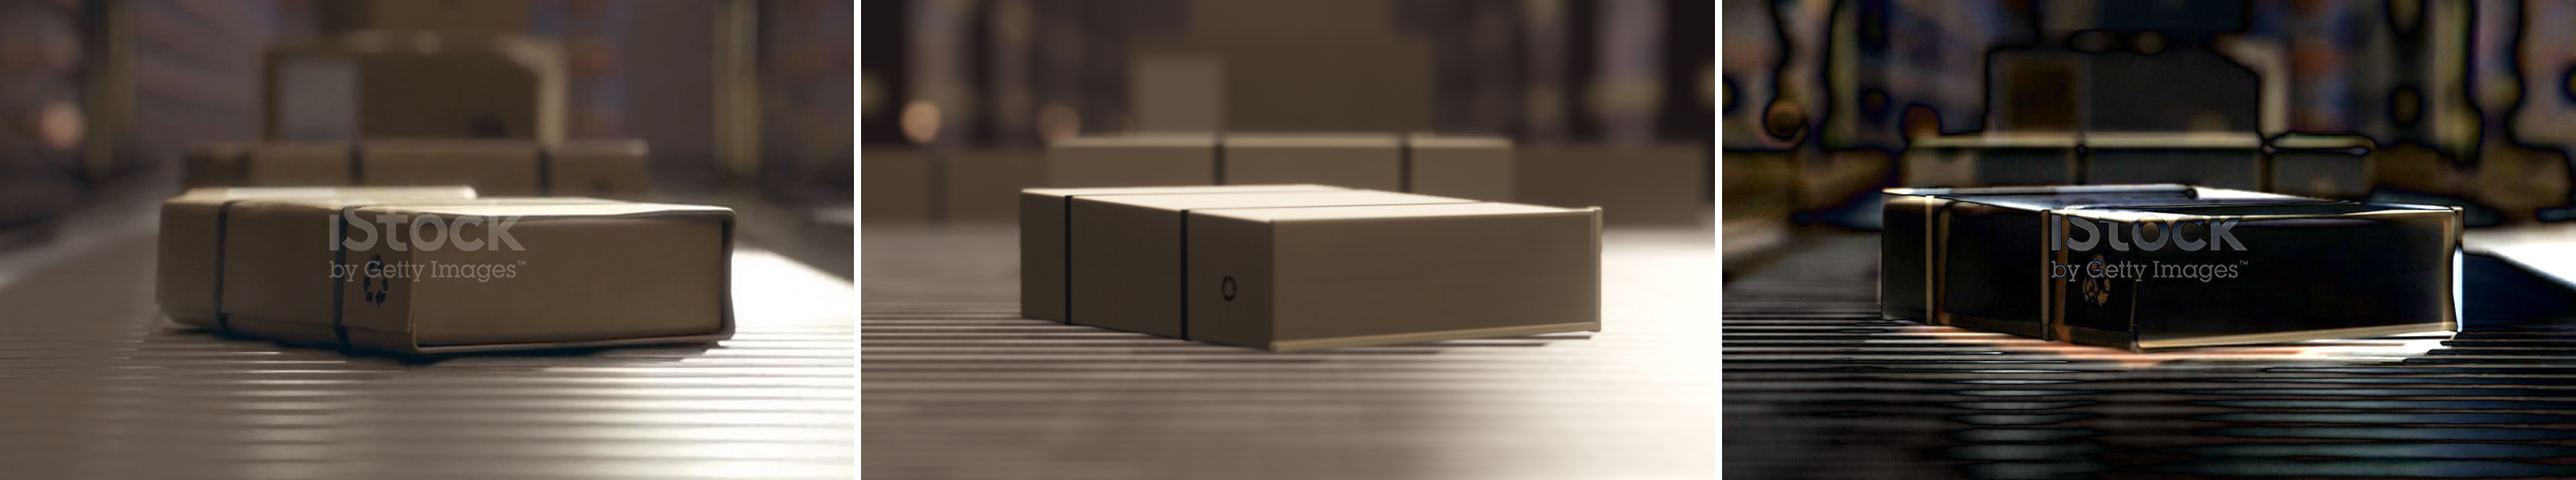
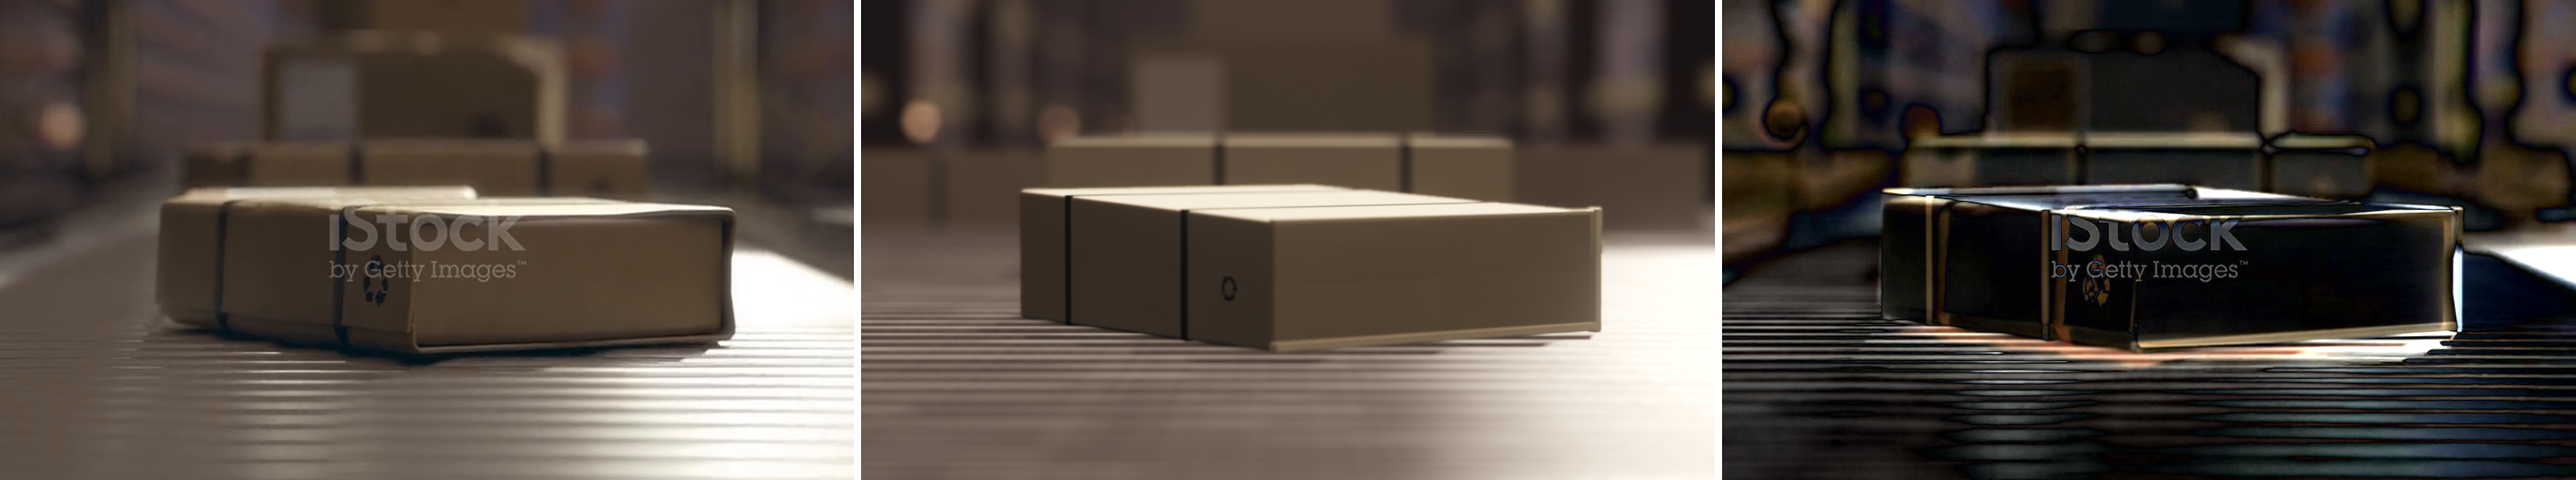
Tune both looks from reviewer rounds; speed up conveyor render
Claude-Session: https://claude.ai/code/session_016jjL2DSSQm13P9xnn1fio6

Changed region(s): [[0.6215, 0.4741, 0.7459, 0.5926], [0.9323, 0.4741, 1.0, 0.5333], [0.3108, 0.4741, 0.404, 0.5333]]

diff --git a/mars-dome/src/world.ts b/mars-dome/src/world.ts
@@ -83,8 +83,8 @@ const panelTexture = (seed: number, cols: number, rows: number) =>
         const v = (y / 512) * rows;
         const fu = u - Math.floor(u);
         const fv = v - Math.floor(v);
-        const seam = Math.min(fu, 1 - fu) * (512 / cols) < 1.6 || Math.min(fv, 1 - fv) * (512 / rows) < 1.6 ? 0.62 : 1;
-        const grime = 0.86 + 0.14 * n.fbm(x / 70, y / 22, 3);
+        const seam = Math.min(fu, 1 - fu) * (512 / cols) < 2.2 || Math.min(fv, 1 - fv) * (512 / rows) < 2.2 ? 0.45 : 1;
+        const grime = 0.74 + 0.26 * n.fbm(x / 70, y / 22, 3);
         const streak = 0.94 + 0.06 * n.value(x / 5, y / 90);
         const fine = 0.97 + 0.03 * rng();
         const t = tint[(Math.floor(v) % rows) * cols + (Math.floor(u) % cols)];
@@ -305,7 +305,7 @@ const buildTerrain = () => {
     for (let y = 0; y < 512; y++) {
       for (let x = 0; x < 512; x++) {
         // tileable: sample the noise on a 128-cell torus
-        const v = 0.82 + 0.3 * dn.ridged((x / 512) * 8, (y / 512) * 8, 5) + 0.1 * (dn.value(x / 2, y / 2) - 0.5);
+        const v = 0.58 + 0.5 * dn.ridged((x / 512) * 8, (y / 512) * 8, 5) + 0.16 * (dn.value(x / 3, y / 3) - 0.5) + 0.1 * dn.ridged((x / 512) * 40, (y / 512) * 40, 2);
         const cc = Math.round(255 * Math.max(0, Math.min(1, v)));
         const i = (y * 512 + x) * 4;
         img.data[i] = cc;
@@ -317,7 +317,7 @@ const buildTerrain = () => {
     ctx.putImageData(img, 0, 0);
   });
   const uv = geo.attributes.uv;
-  for (let i = 0; i < pos.count; i++) uv.setXY(i, pos.getX(i) / 230, pos.getZ(i) / 230);
+  for (let i = 0; i < pos.count; i++) uv.setXY(i, pos.getX(i) / 150, pos.getZ(i) / 150);
   const mesh = new THREE.Mesh(geo, new THREE.MeshStandardMaterial({ vertexColors: true, map: detail, roughness: 1, metalness: 0 }));
   mesh.frustumCulled = false;
   return mesh;
@@ -454,7 +454,7 @@ export const makeWorld = (variant: Variant): World => {
     roof: std(PAL.roofInset, { roughness: 0.9 }),
     glassDark: std(PAL.towerGlass, { roughness: 0.25, metalness: 0.3 }),
   };
-  const beamMat = std(PAL.beam, { roughness: 0.6, map: hullLongTex, side: THREE.DoubleSide });
+  const beamMat = std(PAL.beam, { roughness: 0.45, map: hullLongTex, side: THREE.DoubleSide });
   const towerMat = std(PAL.tower, { map: towerTex });
 
   // --- terrain around the base
@@ -652,7 +652,7 @@ export const makeWorld = (variant: Variant): World => {
         float hot = pow(max(dot(R, uHotDir), 0.0), uHotPower) * uParams.w;
         float refl = mix(0.02, uParams.y, F) + hot;
         float transmit = mix(uParams.x, 0.35, F) * (1.0 - 0.5 * hot);
-        gl_FragColor = vec4(sky * 1.2 * mix(0.02, uParams.y, F) + mix(sky, vec3(1.0, 0.93, 0.85), 0.6) * hot + vec3(glint), clamp(transmit, 0.0, 1.0));
+        gl_FragColor = vec4(sky * 1.2 * mix(0.02, uParams.y, F) + mix(sky, vec3(1.0, 0.86, 0.66), 0.5) * hot + vec3(glint), clamp(transmit, 0.0, 1.0));
       }`,
   });
   const glass = new THREE.Mesh(new THREE.LatheGeometry(glassPts, 128), glassMat);
@@ -682,7 +682,7 @@ export const makeWorld = (variant: Variant): World => {
       root.add(strut(top, anchor, 0.035, 0.035, cableMat, 5));
     }
     const beacon = new THREE.Mesh(beaconGeo, beaconMat);
-    beacon.scale.setScalar(0.22);
+    beacon.scale.setScalar(0.15);
     beacon.position.copy(top).add(new THREE.Vector3(0, 0.75, 0));
     root.add(beacon);
   }
@@ -768,9 +768,9 @@ export const makeWorld = (variant: Variant): World => {
   }
   const spots = lampSpots.slice(0, CONFIG.lamps.count);
   const poleMesh = new THREE.InstancedMesh(new THREE.CylinderGeometry(0.045, 0.06, 2.4, 6), std(PAL.hullDark), spots.length);
-  const bulbMesh = new THREE.InstancedMesh(new THREE.SphereGeometry(0.2, 12, 8), new THREE.MeshBasicMaterial({ color: col(PAL.lamp).multiplyScalar(LIGHTS.lampBrightness) }), spots.length);
-  const poolMat = new THREE.MeshBasicMaterial({ map: glowTexture(), color: col(PAL.lamp).multiplyScalar(0.22), transparent: true, depthWrite: false, blending: THREE.AdditiveBlending });
-  const poolGeo = new THREE.PlaneGeometry(5.2, 5.2);
+  const bulbMesh = new THREE.InstancedMesh(new THREE.SphereGeometry(0.13, 12, 8), new THREE.MeshBasicMaterial({ color: col(PAL.lamp).multiplyScalar(LIGHTS.lampBrightness) }), spots.length);
+  const poolMat = new THREE.MeshBasicMaterial({ map: glowTexture(), color: col(PAL.lamp).multiplyScalar(0.1), transparent: true, depthWrite: false, blending: THREE.AdditiveBlending });
+  const poolGeo = new THREE.PlaneGeometry(3.4, 3.4);
   poolGeo.rotateX(-Math.PI / 2);
   const poolMesh = new THREE.InstancedMesh(poolGeo, poolMat, spots.length);
   spots.forEach(([x, z], i) => {
@@ -815,7 +815,7 @@ export const makeWorld = (variant: Variant): World => {
     root.add(head);
     for (const t of [0.04, 0.22]) {
       const beacon = new THREE.Mesh(beaconGeo, beaconMat);
-      beacon.scale.setScalar(0.07);
+      beacon.scale.setScalar(0.05);
       beacon.position.copy(a).lerp(b, t).add(new THREE.Vector3(-0.22, 0, 0.1));
       root.add(beacon);
     }

diff --git a/mars-dome/src/look.ts b/mars-dome/src/look.ts
@@ -10,32 +10,33 @@ import { Look } from "./engine/pipeline";
 /** Light levels and directions (colours come from the palette in config.ts). */
 export const LIGHTS = {
   /** Soft sun from the camera's upper left. */
-  sun: { intensity: 4.6, elevationDeg: 45, azimuthDeg: 100, shadowRadius: 6, shadowMapSize: 4096 },
+  sun: { intensity: 4.6, elevationDeg: 60, azimuthDeg: 84, shadowRadius: 7, shadowMapSize: 4096 },
   /** Sky / ground ambient: the orange bounce that fills every shadow. */
-  hemisphere: { intensity: 0.22 },
+  hemisphere: { intensity: 0.42 },
   /** Image-based light from the procedural dusty sky. */
   environment: { intensity: 0.2 },
   /** Path lamps and beacons: emissive brightness (they bloom). */
-  lampBrightness: 8,
-  beaconBrightness: 2.5,
+  lampBrightness: 7,
+  beaconBrightness: 1.6,
   /**
    * Dome glass. transmit = how much of the scene behind shows through face-on (it dims, it does not veil);
    * grazing = mirror strength at glancing angles; hotspot = a broad bright patch of sky reflected in the
    * near side of the dome, placed at hotspotAt (fractions of the base frame, from the top left).
    */
-  glass: { transmit: 0.82, grazing: 0.3, sunGlint: 0.5, hotspot: 0.55, hotspotPower: 110, hotspotAt: [0.93, 0.93] as [number, number] },
+  glass: { transmit: 0.84, grazing: 0.26, sunGlint: 0, hotspot: 3.0, hotspotPower: 900, hotspotAt: [0.93, 0.93] as [number, number] },
 };
 
 export const LOOK: Look = {
-  exposure: 0.92,
+  msaaSamples: 4,
+  exposure: 0.8,
   toneMap: "agx",
   whiteBalance: [1, 1, 1],
   fog: {
-    color: [0.34, 0.085, 0.03],
-    sunColor: [0.5, 0.16, 0.065],
-    sunDir: [0.9, 0.3, -0.3],
-    sunPower: 2,
-    density: 0.0003,
+    color: [0.4, 0.1, 0.028],
+    sunColor: [0.95, 0.42, 0.14],
+    sunDir: [0.22, 0.07, -1],
+    sunPower: 5,
+    density: 0.00055,
     heightFalloff: 0.0,
     baseHeight: 0,
     maxOpacity: 0.93,
@@ -44,22 +45,22 @@ export const LOOK: Look = {
     enabled: true,
     /** metres along the lens axis: the tower and the buildings around it */
     focus: 56,
-    cocInfinity: 0.014,
-    maxCoc: 0.045,
+    cocInfinity: 0.02,
+    maxCoc: 0.016,
     nearScale: 0.45,
   },
-  bloom: { threshold: 0.9, knee: 0.5, strength: 0.6, tilt: 0.25 },
+  bloom: { threshold: 0.9, knee: 0.5, strength: 0.35, tilt: 0.0 },
   grade: {
-    blackLevel: 0.085,
+    blackLevel: 0.1,
     whiteLevel: 1,
-    contrast: 1.12,
-    pivot: 0.42,
+    contrast: 1.24,
+    pivot: 0.44,
     saturation: 1,
     gamma: [1, 1, 1],
     shadowTint: [0, 0, 0],
     highlightTint: [0, 0, 0],
   },
-  lens: { vignette: 0, vignetteStart: 0.4, chromaticAberration: 0.0015, softness: 0.0006 },
-  grain: { amount: 0.0016, size: 2, chroma: 0.3 },
+  lens: { vignette: 0, vignetteStart: 0.4, chromaticAberration: 0.0015, softness: 0 },
+  grain: { amount: 0.0026, size: 2, chroma: 0.3 },
   dither: true,
 };

diff --git a/conveyor-parcels/src/world.ts b/conveyor-parcels/src/world.ts
@@ -514,7 +514,7 @@ export const makeWorld = (variant: Variant): World => {
   const beltCentre = ((rc.right + rc.left) / 2) * P;
 
   // --- rollers
-  const rollerGeo = new THREE.CylinderGeometry(rc.radius * P, rc.radius * P, beltWidth, 32, 1, false);
+  const rollerGeo = new THREE.CylinderGeometry(rc.radius * P, rc.radius * P, beltWidth, 24, 1, true);
   rollerGeo.rotateZ(Math.PI / 2);
   rollTex.repeat.set(2, 1);
   const rollerMat = new THREE.MeshPhysicalMaterial({
@@ -580,10 +580,17 @@ export const makeWorld = (variant: Variant): World => {
       );
   };
   rollerMat.customProgramCacheKey = () => "roller-v4";
-  const rollers = new THREE.InstancedMesh(rollerGeo, rollerMat, rc.count);
-  rollers.receiveShadow = true;
-  rollers.frustumCulled = false;
-  root.add(rollers);
+  // near rollers get a round profile; distant ones a coarser one (they are a few pixels tall and out of focus)
+  const rollerGeoFar = new THREE.CylinderGeometry(rc.radius * P, rc.radius * P, beltWidth, 10, 1, true);
+  rollerGeoFar.rotateZ(Math.PI / 2);
+  const nearCount = Math.min(rc.nearCount, rc.count);
+  const rollersNear = new THREE.InstancedMesh(rollerGeo, rollerMat, nearCount);
+  const rollersFar = new THREE.InstancedMesh(rollerGeoFar, rollerMat, rc.count - nearCount);
+  for (const r of [rollersNear, rollersFar]) {
+    r.receiveShadow = true;
+    r.frustumCulled = false;
+    root.add(r);
+  }
   // each roller keeps its own tint as it travels; the tint table repeats once per loop
   const tintRng = mulberry32(31337);
   const tints: THREE.Color[] = [];
@@ -713,12 +720,16 @@ export const makeWorld = (variant: Variant): World => {
         dummy.rotation.set(0, 0, 0);
         dummy.scale.set(1, 1, 1);
         dummy.updateMatrix();
-        rollers.setMatrixAt(i, dummy.matrix);
+        const mesh = i < nearCount ? rollersNear : rollersFar;
+        const k = i < nearCount ? i : i - nearCount;
+        mesh.setMatrixAt(k, dummy.matrix);
         const id = (((i + whole) % tints.length) + tints.length) % tints.length;
-        rollers.setColorAt(i, tint.copy(tints[id]));
+        mesh.setColorAt(k, tint.copy(tints[id]));
       }
-      rollers.instanceMatrix.needsUpdate = true;
-      if (rollers.instanceColor) rollers.instanceColor.needsUpdate = true;
+      for (const r of [rollersNear, rollersFar]) {
+        r.instanceMatrix.needsUpdate = true;
+        if (r.instanceColor) r.instanceColor.needsUpdate = true;
+      }
 
       // warehouse slides past
       backdrop.position.z = travel * P;

diff --git a/mars-dome/src/config.ts b/mars-dome/src/config.ts
@@ -14,34 +14,34 @@ export type Variant = "v1" | "v2";
 
 export const PALETTE = {
   /** Surfaces (sRGB hex). */
-  hull: "#a39587",
+  hull: "#aaa49d",
   hullDark: "#8e8278",
   hullAccent: "#7f8aa0",
   roofInset: "#6b4f40",
   beam: "#b3a591",
-  tower: "#c9bcae",
+  tower: "#c2b9ab",
   towerGlass: "#39404c",
-  plaza: "#7f6f64",
+  plaza: "#7d746e",
   plazaSeam: "#5f544c",
   wall: "#a39489",
   curb: "#93867b",
-  grass: "#2b2818",
-  foliage: "#1f1f13",
+  grass: "#2f3a1d",
+  foliage: "#1d2b13",
   trunk: "#3a2c22",
   mast: "#b9ada0",
   cable: "#d9cfc4",
-  terrainLit: "#d9743c",
-  terrainDark: "#7a3a18",
-  terrainPale: "#e0a57e",
+  terrainLit: "#e2702c",
+  terrainDark: "#6e2f10",
+  terrainPale: "#f0a25c",
   sand: "#b9683e",
   /** Lights (sRGB hex). */
-  sun: "#ffe6cf",
-  skyFill: "#f0a67a",
+  sun: "#ffe0b8",
+  skyFill: "#cfc6c2",
   groundFill: "#8a5236",
   lamp: "#fff4ea",
-  beacon: "#ff3a22",
+  beacon: "#e0200e",
   haze: "#c1673f",
-  hazeSun: "#e6a179",
+  hazeSun: "#eaa55f",
 };
 
 export const CONFIG = {
@@ -121,7 +121,7 @@ export const CONFIG = {
     { r0: 30, r1: 39, a0: -72, a1: -44 },
   ],
   trees: { perPlot: 4, extra: 6, seed: 4117 },
-  lamps: { count: 30, seed: 9203 },
+  lamps: { count: 20, seed: 9203 },
   terrain: { seed: 77, size: [3000, 2100] as [number, number], segments: 400 },
   /** A slim pole right in front of the lens, far out of focus, with two beacons. Camera-space metres. */
   foregroundPole: {

diff --git a/conveyor-parcels/src/config.ts b/conveyor-parcels/src/config.ts
@@ -79,8 +79,8 @@ export const PALETTES: Record<Variant, Palette> = {
     strap: "#d2571a",
     label: "#e4ecf2",
     mark: "#18222c",
-    roller: "#7f8a94",
-    rollerGap: "#0f1418",
+    roller: "#465058",
+    rollerGap: "#12181c",
     rail: "#a9b6c2",
     floor: "#141c24",
     backdrop: "#273847",
@@ -119,8 +119,10 @@ export const CONFIG = {
     pitchesPerLoop: 64,
   },
   rollers: {
-    /** Real cylinders out to this distance; a flat strip continues beyond. */
-    count: 150,
+    /** Real cylinders for the first `count` rollers; a flat strip with the same light bands continues beyond. */
+    count: 66,
+    /** How many of them (nearest the lens) use the fine round profile. */
+    nearCount: 30,
     firstAt: 9,
     /** Roller radius in pitches (0.5 would make neighbours touch). */
     radius: 0.46,

diff --git a/conveyor-parcels/src/engine/pipeline.ts b/conveyor-parcels/src/engine/pipeline.ts
@@ -18,6 +18,8 @@ import * as THREE from "three";
 export type Vec3 = [number, number, number];
 
 export interface Look {
+  /** Multisample count for the scene pass (0, 2 or 4). */
+  msaaSamples: number;
   /** Scene-linear gain applied before tone mapping. */
   exposure: number;
   toneMap: "aces" | "agx";
@@ -594,7 +596,7 @@ export class PostPipeline {
     depth.type = THREE.UnsignedIntType;
     depth.minFilter = THREE.NearestFilter;
     depth.magFilter = THREE.NearestFilter;
-    this.sceneRT = hdr(w, h, { samples: 4, depthBuffer: true, depthTexture: depth });
+    this.sceneRT = hdr(w, h, { samples: this.look.msaaSamples, depthBuffer: true, depthTexture: depth });
     this.prepRT = hdr(w, h);
     this.dofRT = hdr(w, h);
     const hw = Math.ceil(w / 2);

diff --git a/mars-dome/src/engine/pipeline.ts b/mars-dome/src/engine/pipeline.ts
@@ -18,6 +18,8 @@ import * as THREE from "three";
 export type Vec3 = [number, number, number];
 
 export interface Look {
+  /** Multisample count for the scene pass (0, 2 or 4). */
+  msaaSamples: number;
   /** Scene-linear gain applied before tone mapping. */
   exposure: number;
   toneMap: "aces" | "agx";
@@ -594,7 +596,7 @@ export class PostPipeline {
     depth.type = THREE.UnsignedIntType;
     depth.minFilter = THREE.NearestFilter;
     depth.magFilter = THREE.NearestFilter;
-    this.sceneRT = hdr(w, h, { samples: 4, depthBuffer: true, depthTexture: depth });
+    this.sceneRT = hdr(w, h, { samples: this.look.msaaSamples, depthBuffer: true, depthTexture: depth });
     this.prepRT = hdr(w, h);
     this.dofRT = hdr(w, h);
     const hw = Math.ceil(w / 2);

diff --git a/conveyor-parcels/src/look.ts b/conveyor-parcels/src/look.ts
@@ -63,6 +63,7 @@ export const LIGHTS = {
 };
 
 export const LOOK: Look = {
+  msaaSamples: 2,
   exposure: 1.25,
   toneMap: "aces",
   whiteBalance: [1, 1, 1],
